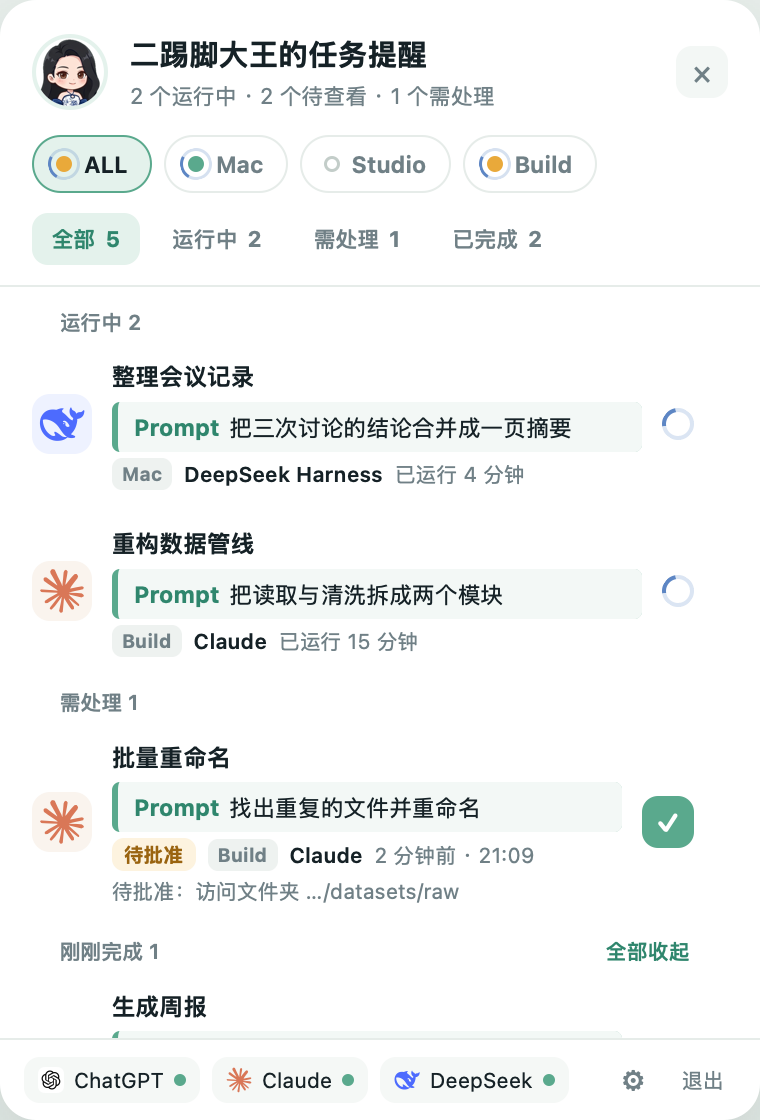
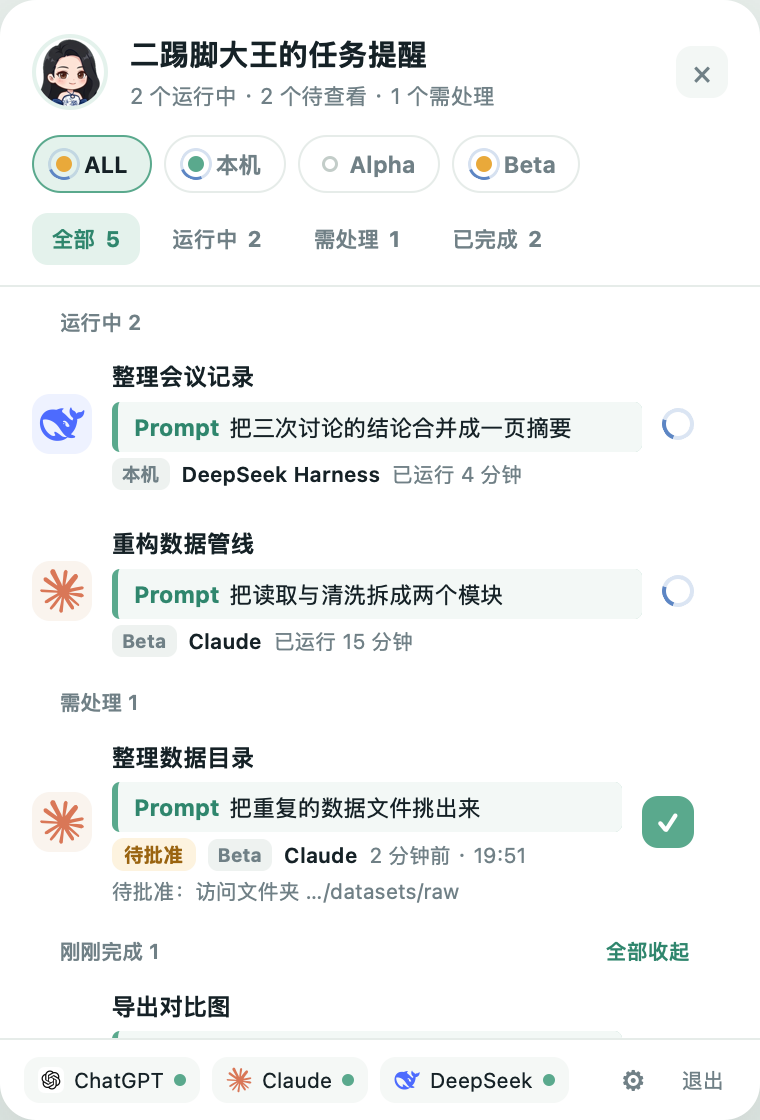
修复 Claude 长时间工具循环后读不到提问；更新面板截图
_OPENS_TURN 把 tool_result 和 assistant 行都当成开轮事件，导致尾部窗口
在只含工具循环时提前停止扩大，真正的提问被留在窗口外。现在只认
session_meta、task_started 和真人 user 消息。

diff --git a/tests/test_ssh_remote.py b/tests/test_ssh_remote.py
@@ -165,6 +165,38 @@ class ProbeChecks(unittest.TestCase):
         ])
         self.assertEqual(self.collect()['items'][0]['prompt'], '继续把预览问题修完')
 
+    def test_claude_tail_widens_past_a_long_tool_loop(self):
+        """Claude 的工具循环会写出上千条 tool_result 和 assistant 行，但没有任何提问。
+
+        它们都是 type user/assistant，如果算"开轮"，窗口就不再扩大，
+        提问就永远读不到。真实现场：17 上 40MB 的转写，提问在 82.5%，4MB 窗口从 90% 开始。
+        """
+        rows = []
+        # 抛在很前面的真实提问
+        rows.append({'type': 'user', 'sessionId': '377a70e3', 'timestamp': self.iso(7200),
+                     'message': {'role': 'user', 'content': '把标注结果整理一下'}})
+        rows.append({'type': 'assistant', 'sessionId': '377a70e3', 'timestamp': self.iso(7199),
+                     'message': {'role': 'assistant', 'stop_reason': 'tool_use',
+                                 'content': [{'type': 'text', 'text': '好的'}]}})
+        # 数千条工具循环：只有 tool_result 和 assistant，没有真人提问
+        for i in range(20000):
+            rows.append({'type': 'user', 'sessionId': '377a70e3', 'timestamp': self.iso(3600),
+                         'message': {'role': 'user', 'content': [
+                             {'type': 'tool_result', 'tool_use_id': 't%d' % i,
+                              'content': 'x' * 300}]}})
+            rows.append({'type': 'assistant', 'sessionId': '377a70e3', 'timestamp': self.iso(3599),
+                         'message': {'role': 'assistant', 'stop_reason': 'tool_use',
+                                     'content': [{'type': 'tool_use', 'id': 't%d' % i,
+                                                  'name': 'Bash', 'input': {}}]}})
+        rows.append({'type': 'assistant', 'sessionId': '377a70e3', 'timestamp': self.iso(60),
+                     'message': {'role': 'assistant', 'stop_reason': 'end_turn',
+                                 'content': [{'type': 'text', 'text': '整理完了'}]}})
+        self.claude_session('377a70e3', rows, name='数据处理')
+        os.utime(next((self.home/'.claude/projects').rglob('*.jsonl')), (self.now, self.now))
+        item = self.collect()['items'][0]
+        self.assertEqual(item['prompt'], '把标注结果整理一下')
+        self.assertEqual(item['detail'], '整理完了')
+
     def test_codex_compact_keeps_the_question_visible(self):
         """compact 之后，提问写在很靠前的位置，尾部只剩结束事件。
 

diff --git a/ssh_remote.py b/ssh_remote.py
@@ -152,19 +152,33 @@ def tail_rows(path, budget=TAIL_BUDGET):
 
 
 def _OPENS_TURN(row):
-    """An event that *starts* a turn or names a thread.
+    """An event that truly *starts* a turn, or names a thread.
 
-    `task_complete` deliberately does not count. After a compact, Codex writes the
-    ending of a long turn far from its beginning: a tail that happens to contain
-    only the ending would look complete, the window would stop widening, and the
-    user's question (written at task_started) would be lost.
+    Two things deliberately do not count:
+
+    - Codex's `task_complete`. After a compact the ending sits far from the
+      beginning; a tail holding only the ending would look complete and the
+      question (written at task_started) would be lost.
+    - Claude's `tool_result` rows. They are `type: user` but they are tool output
+      echoing back, not something you typed. A long file can have tens of
+      thousands of them and no real prompt, so treating them as an opening
+      stops the window from widening right where the question is missing.
+    - Claude's `assistant` rows. Replies come after the question; a tail full of
+      tool loops has plenty of them and still no question, so they cannot stand
+      in for the start of an exchange either.
     """
     typ = row.get('type')
     if typ == 'session_meta':
         return True
     if typ == 'event_msg':
         return (row.get('payload') or {}).get('type') == 'task_started'
-    return typ in ('user', 'assistant')
+    if typ == 'user':
+        content = (row.get('message') or {}).get('content')
+        if isinstance(content, list) and any(
+                isinstance(part, dict) and part.get('type') == 'tool_result' for part in content):
+            return False        # tool output, not a question
+        return True
+    return False
 
 
 # Claude 的转写同理：一段很长的工具调用之后，尾部可能没有开场记录。
